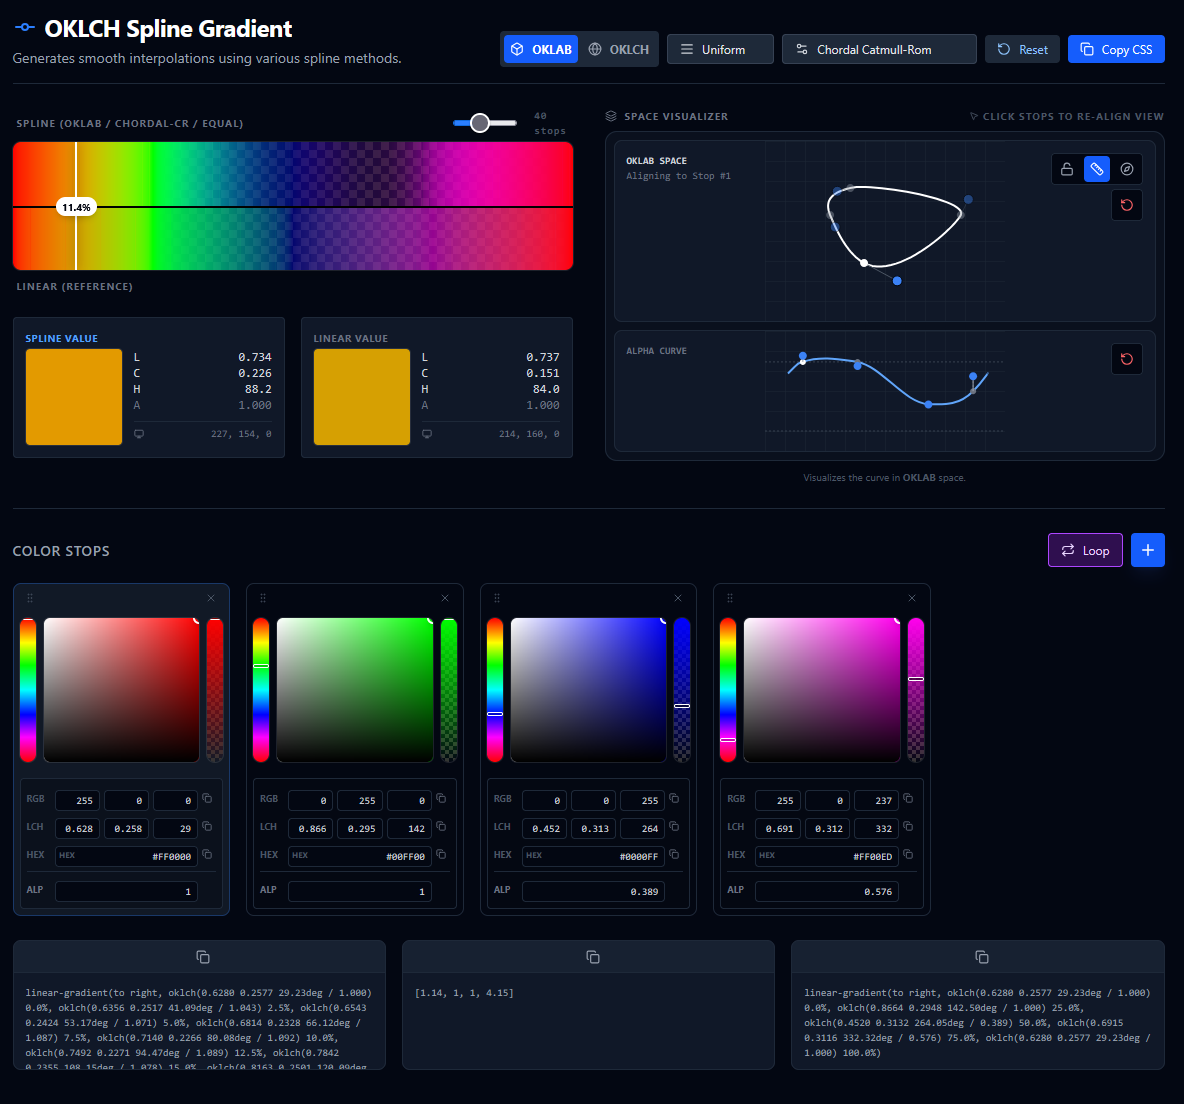
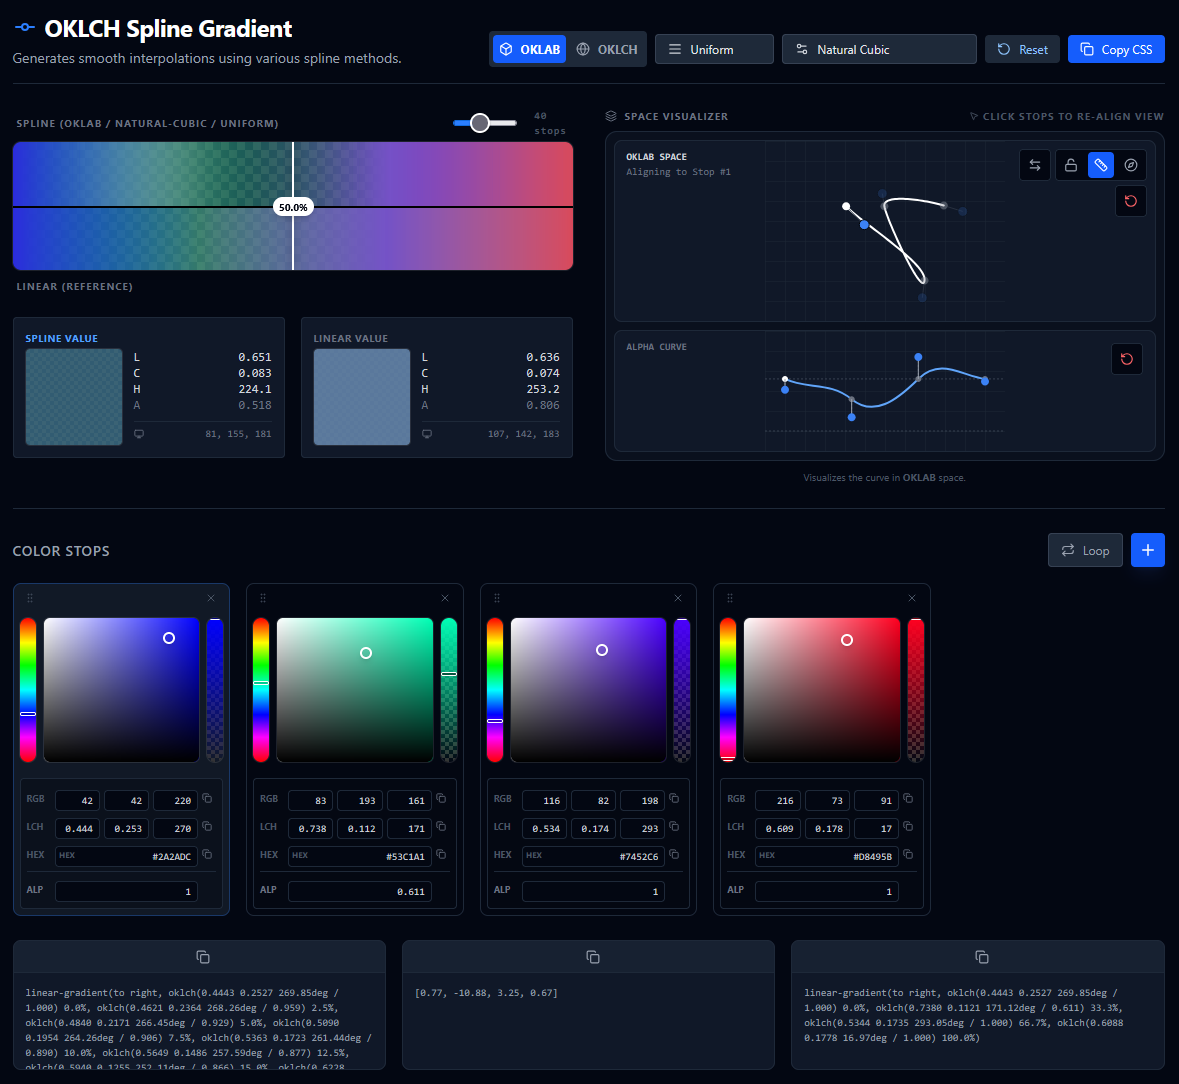
tangent invert button and true rotation projection necessary for rotational halfball

diff --git a/hermite_oklch_gradients_visual.js b/hermite_oklch_gradients_visual.js
@@ -1,5 +1,5 @@
 import React, { useState, useMemo, useEffect, useRef } from 'react';
-import { X, Plus, RotateCcw, MousePointer2, GitCommit, Copy, Check, Lock, Unlock, Monitor, FileCode, Braces, Layers, Repeat, Globe, Box, GripVertical, Settings2, AlignCenter, AlignJustify, Ruler, Compass } from 'lucide-react';
+import { X, Plus, RotateCcw, MousePointer2, GitCommit, Copy, Check, Lock, Unlock, Monitor, FileCode, Braces, Layers, Repeat, Globe, Box, GripVertical, Settings2, AlignCenter, AlignJustify, Ruler, Compass, ArrowLeftRight } from 'lucide-react';
 
 // ==========================================
 // 1. Math & Logic Library
@@ -683,7 +683,9 @@ function SplineEditor({
     
     // Basis computation index
     let basisIndex = viewIndex ?? 0;
-    if (!isRing) {
+    //if ring we have no end index, so we can use ends bc they properly defined via neighbors
+    // if rotation we use the tangent anyway so it does not matter
+    if (!isRing && mode !== 'rotation') {
         if (basisIndex === 0) basisIndex = 1;
         else if (basisIndex === points.length - 1) basisIndex = points.length - 2;
     }
@@ -720,13 +722,13 @@ function SplineEditor({
              tanVec = { x: t[1], y: t[2], z: t[0] };
          }
 
-         let u = norm(tanVec);
-         if (Math.hypot(u.x, u.y, u.z) < 1e-4) u = { x: 1, y: 0, z: 0 };
+         let n = norm(tanVec);
+         if (Math.hypot(n.x, n.y, n.z) < 1e-4) n = { x: 1, y: 0, z: 0 };
          
          let globalUp = { x: 0, y: 0, z: 1 };
-         if (Math.abs(u.z) > 0.99) globalUp = { x: 0, y: 1, z: 0 };
+         if (Math.abs(n.z) > 0.99) globalUp = { x: 0, y: 1, z: 0 };
          
-         const n = norm(cross(u, globalUp));
+         const u = norm(cross(n, globalUp));
          const v = norm(cross(n, u));
 
          return { center: centroid, u, v, n };
@@ -781,14 +783,14 @@ function SplineEditor({
   const offsetY = height/2;
 
   const toScreen = (pt) => {
-    const center = activeBasis.center;  // Changed
+    const center = activeBasis.center; 
     const cart = mathMode === 'oklch' ? oklchToOklab(pt) : pt;
     const rx = cart[1] - center.x; 
     const ry = cart[2] - center.y; 
     const rz = cart[0] - center.z; 
     
-    const x = rx * activeBasis.u.x + ry * activeBasis.u.y + rz * activeBasis.u.z;  // Changed
-    const y = rx * activeBasis.v.x + ry * activeBasis.v.y + rz * activeBasis.v.z;  // Changed
+    const x = rx * activeBasis.u.x + ry * activeBasis.u.y + rz * activeBasis.u.z;  
+    const y = rx * activeBasis.v.x + ry * activeBasis.v.y + rz * activeBasis.v.z; 
     return { x: x * scale + offsetX, y: offsetY - y * scale };
   };
 
@@ -906,9 +908,18 @@ function SplineEditor({
     setTangents(newTangents);
   };
 
+  const invertTangent = () => {
+        if (activeIndex === null || activeIndex === undefined) return;
+        const tan = tangents[activeIndex] || [0,0,0,0];
+        const newTangent = [ -tan[0], -tan[1], -tan[2], tan[3] ];
+        const newTangents = tangentsState.slice();
+        newTangents[activeIndex] = newTangent;
+        setTangents(newTangents);
+  }
+
   return (
     <div className="bg-gray-900 rounded-lg shadow-inner inline-block select-none relative overflow-hidden border border-gray-800 group/editor w-full h-full flex items-center justify-center">
-       <div className="absolute top-3 left-3 text-[10px] text-gray-500 pointer-events-none z-10 font-mono">
+       <div className="absolute top-2 left-3 text-[10px] text-gray-500 pointer-events-none z-10 font-mono">
          <div className="font-bold text-gray-300">{mathMode.toUpperCase()} SPACE</div>
          <div>Aligning to Stop #{ (viewIndex ?? 0) + 1 }</div>
        </div>
@@ -955,7 +966,7 @@ function SplineEditor({
                     onPointerDown={(e) => { e.stopPropagation(); setActiveIndex(i); setViewIndex && setViewIndex(i); }}
                     className="cursor-pointer"
                 />
-                <g className={mode === 'free' ? 'cursor-move' : 'cursor-pointer'} onPointerDown={(e) => handlePointerDown(e, i)}>
+                <g className={mode === 'free' ? 'cursor-move' : 'cursor-pointer'} onPointerDown={(e) => handlePointerDown(e, i)} opacity= {isActive ? 1 : 0.4}>
                     <circle cx={clampedHandle.x} cy={clampedHandle.y} r={12} fill="transparent" />
                     <circle cx={clampedHandle.x} cy={clampedHandle.y} r={5} fill={isDragging ? "#ffffff" : (mode === 'free' ? "#ef4444" : mode === 'rotation' ? "#10b981" : "#3b82f6")} stroke="black" strokeWidth={1}/>
                 </g>
@@ -964,19 +975,26 @@ function SplineEditor({
         })}
        </svg>
        
-      <div className="absolute top-3 right-3 z-20 flex flex-col gap-1 items-end">
-        <div className="flex gap-1 bg-gray-950 rounded border border-gray-800 p-0.5">
-          <Tooltip text={`Free Mode: Adjust length and direction`} side="bottom">
-              <button onClick={() => setMode('free')} className={`p-1.5 rounded ${mode === 'free' ? 'bg-blue-600 text-white' : 'text-gray-400 hover:text-gray-200'}`}><Unlock size={14} /></button>
-          </Tooltip>
-          <Tooltip text="Length Mode: Adjust tension only (drag along line)" side="bottom">
-              <button onClick={() => setMode('length')} className={`p-1.5 rounded ${mode === 'length' ? 'bg-blue-600 text-white' : 'text-gray-400 hover:text-gray-200'}`}><Ruler size={14} /></button>
-          </Tooltip>
-          <Tooltip text="Rotation Mode: Adjust angle only (preserve length)" side="bottom">
-            <button onClick={() => setMode('rotation')} className={`p-1.5 rounded ${mode === 'rotation' ? 'bg-green-600 text-white' : 'text-gray-400 hover:text-gray-200'}`}>
-                <Compass size={14} />
-            </button>
-          </Tooltip>
+      <div className="absolute top-2 right-2 z-20 flex flex-col gap-1 items-end">
+        <div className="flex gap-1">
+            <div className=" bg-gray-950 rounded border border-gray-800 p-0.5">
+                <Tooltip className="px-1" text={`Invert Tangent: Inverts Tangent Direction`} side="bottom">
+                    <button onClick={() => invertTangent()} className={'p-1.5 rounded text-gray-400 hover:text-gray-200 active:text-white active:bg-purple-400'}><ArrowLeftRight size={14} /></button>
+                </Tooltip>
+            </div>
+            <div className="flex gap-1 bg-gray-950 rounded border border-gray-800 p-0.5">
+                <Tooltip text={`Free Mode: Adjust length and direction`} side="bottom">
+                    <button onClick={() => setMode('free')} className={`p-1.5 rounded ${mode === 'free' ? 'bg-red-600 text-white' : 'text-gray-400 hover:text-gray-200'}`}><Unlock size={14} /></button>
+                </Tooltip>
+                <Tooltip text="Length Mode: Adjust tension only (drag along line)" side="bottom">
+                    <button onClick={() => setMode('length')} className={`p-1.5 rounded ${mode === 'length' ? 'bg-blue-600 text-white' : 'text-gray-400 hover:text-gray-200'}`}><Ruler size={14} /></button>
+                </Tooltip>
+                <Tooltip text="Rotation Mode: Adjust angle only (preserve length)" side="bottom">
+                    <button onClick={() => setMode('rotation')} className={`p-1.5 rounded ${mode === 'rotation' ? 'bg-green-600 text-white' : 'text-gray-400 hover:text-gray-200'}`}>
+                        <Compass size={14} />
+                    </button>
+                </Tooltip>
+            </div>
         </div>
         {hasEdits && (
               <div className="bg-gray-950 rounded border border-gray-800 p-0.5">
@@ -1210,7 +1228,7 @@ function AlphaEditor({
 
     return (
         <div className="bg-gray-900 rounded-lg shadow-inner relative overflow-hidden border border-gray-800 w-full h-full flex items-center justify-center group/alpha">
-            <div className="absolute top-3 left-3 text-[10px] text-gray-500 font-mono font-bold pointer-events-none z-10">
+            <div className="absolute top-2 left-3 text-[10px] text-gray-500 font-mono font-bold pointer-events-none z-10">
                 ALPHA CURVE
             </div>
              <div className="absolute top-3 right-3 z-20 flex bg-gray-950 rounded border border-gray-800 p-0.5">

diff --git a/README.md b/README.md
@@ -54,7 +54,7 @@ This means the spline path naturally curves around the achromatic center rather 
 The idea is that the user can manipulate the spline curve by changing strength, and orientation of the tangents at each stop. (In practice you only need strength as a change in orientation is equal to a different set of fixpoints.)
 While Colors with alpha Values are supported, the editor only supports 3D coordinates and we externalize the editing of alpha values to a simple 2D curve.
 
-Editing 3D coordinates on a 2D screen is difficult, so we don't do that. We instead utilize specific projection planes and interaction modes to make the process intuitive. 
+Editing 3D coordinates on a 2D screen is difficult, so we don't do that. We instead utilize specific projection planes and interaction modes to make the process intuitive. The most simple interaction: inversion is provided by an extra button.
 
 *   **Neighbor Plane Projection:** When a stop is selected, the viewport automatically aligns to the local curvature plane defined by the active point and its neighbors. This ensures edits are made in the most relevant geometric context. Note that this is not the Frenet-Frame because it is unstable for curves with points of zero curvature. In practice that should not be a problem for your edits. It is however close to it.
 *   **Orthogonal Plane Projection:** In rotation mode, the tangent vector is manipulated within the plane orthogonal to its current direction, allowing intuitive rotational adjustments.
